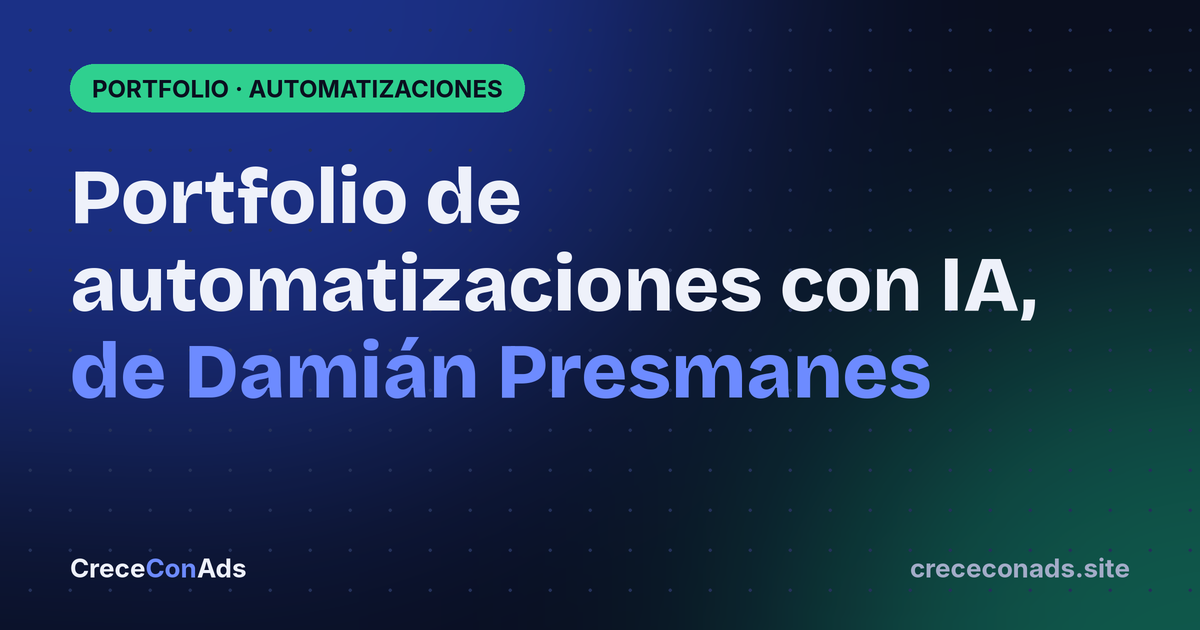
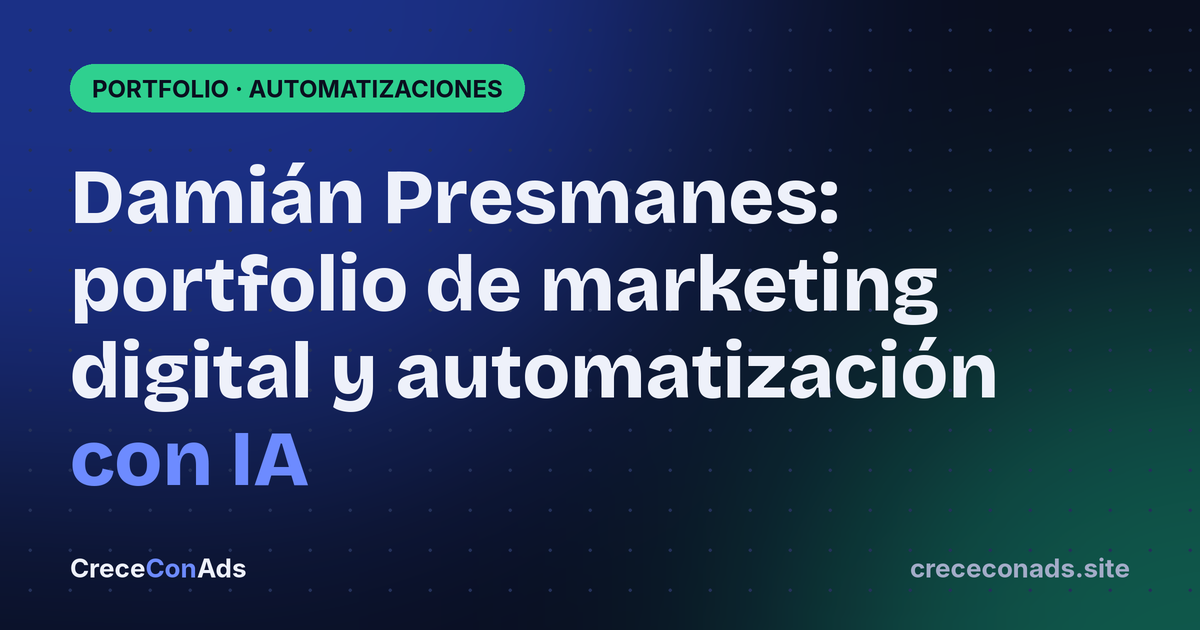
Portfolio: enfoque para consultores (formación, resultados, trabajar juntos)
Claude-Session: https://claude.ai/code/session_01Nwvc8Z345cPxf9YviSEw16

Changed region(s): [[0.0617, 0.3921, 0.8633, 0.6635], [0.0617, 0.2413, 0.7092, 0.3619], [0.0617, 0.6635, 0.2775, 0.7841]]

diff --git a/portfolio-automatizaciones-k7q2.html b/portfolio-automatizaciones-k7q2.html
@@ -5,7 +5,7 @@
 <meta name="viewport" content="width=device-width, initial-scale=1">
 <script>window.dataLayer=window.dataLayer||[];dataLayer.push({'gtm.start':Date.now(),event:'gtm.js'});(function(){var c=0;function g(){if(c)return;c=1;var j=document.createElement('script');j.async=true;j.src='https://www.googletagmanager.com/gtm.js?id=GTM-TKWHBHB9';document.head.appendChild(j);}['scroll','pointerdown','keydown','touchstart'].forEach(function(e){addEventListener(e,g,{once:true,passive:true});});addEventListener('load',function(){setTimeout(g,2000);});})();</script>
 <script>window.va=window.va||function(){(window.vaq=window.vaq||[]).push(arguments)};</script><script defer src="/_vercel/insights/script.js"></script>
-<title>Portfolio de automatizaciones con IA | Damián Presmanes</title>
+<title>Damián Presmanes · Portfolio de marketing digital y automatización con IA</title>
 <meta name="description" content="Sistemas con IA que hacen el trabajo repetitivo: trámites de la UTN, contenido y anuncios en Meta, SEO e investigación web. Con un punto de control humano en cada paso.">
 <link rel="canonical" href="https://crececonads.site/portfolio-automatizaciones-k7q2">
 <meta name="robots" content="noindex, nofollow">
@@ -18,7 +18,7 @@
 <meta property="og:locale" content="es_AR">
 <meta property="og:site_name" content="CreceConAds">
 <meta property="og:url" content="https://crececonads.site/portfolio-automatizaciones-k7q2">
-<meta property="og:title" content="Portfolio de automatizaciones con IA, de Damián Presmanes">
+<meta property="og:title" content="Damián Presmanes: portfolio de marketing digital y automatización con IA">
 <meta property="og:description" content="Sistemas con IA que hacen el trabajo repetitivo: trámites de la UTN, contenido y anuncios en Meta, SEO e investigación web. Con un punto de control humano en cada paso.">
 <meta property="og:image" content="https://crececonads.site/img/og/portfolio-automatizaciones-k7q2.png">
 <meta property="og:image:width" content="1200">
@@ -37,7 +37,7 @@
    "@type": "WebPage",
    "@id": "https://crececonads.site/portfolio-automatizaciones-k7q2#pagina",
    "url": "https://crececonads.site/portfolio-automatizaciones-k7q2",
-   "name": "Portfolio de automatizaciones con IA, de Damián Presmanes",
+   "name": "Damián Presmanes: portfolio de marketing digital y automatización con IA",
    "description": "Sistemas con IA que hacen el trabajo repetitivo: trámites de la UTN, contenido y anuncios en Meta, SEO e investigación web. Con un punto de control humano en cada paso.",
    "inLanguage": "es-AR",
    "dateModified": "2026-11-24",
@@ -63,7 +63,7 @@
     {
      "@type": "ListItem",
      "position": 2,
-     "name": "Portfolio de automatizaciones con IA, de Damián Presmanes",
+     "name": "Damián Presmanes: portfolio de marketing digital y automatización con IA",
      "item": "https://crececonads.site/portfolio-automatizaciones-k7q2"
     }
    ]
@@ -81,23 +81,50 @@
 </div></header>
 <main class="wrap">
 <div class="pf">
-  <header class="pf-hero">
-    <p class="pf-eyebrow">Portfolio · Automatizaciones con IA</p>
-    <h1>Automatizo el trabajo repetitivo para que te quede tiempo para <em>lo que da plata</em></h1>
-    <p class="pf-sub">Soy Damián Presmanes. Vengo del marketing digital (Meta Ads, contenido y SEO) y hoy armo sistemas con IA que hacen el trabajo de todos los días. En cada uno hay un paso donde apruebo yo: la IA trabaja, pero no se manda sola.</p>
-    <div class="pf-nums">
-      <div><strong>4–5 h → 2 h</strong><span>por día en los trámites de la UTN</span></div>
-      <div><strong>24</strong><span>agentes de IA con tareas programadas</span></div>
-      <div><strong>14</strong><span>guías publicadas con el sistema de SEO</span></div>
-      <div><strong>30</strong><span>novedades de IA y Meta con fuente oficial</span></div>
+  <header class="pf-hero pf-hero-cv">
+    <div class="pf-hero-txt">
+      <p class="pf-eyebrow">Portfolio · Marketing digital y automatización con IA</p>
+      <h1>Damián Presmanes</h1>
+      <p class="pf-rol">Recibido en Comercio Electrónico y Marketing Digital en la UTN, con formación en programación. Fundador de CreceConAds.</p>
+      <p class="pf-sub">Combino dos cosas que pocas veces van juntas: sé de marketing y ventas, y sé programar. Por eso armo yo mismo las campañas, los agentes de IA y las automatizaciones, y cada sistema apunta a un resultado de negocio.</p>
+      <div class="pf-botones"><a class="btn" data-cta="agendar" href="/agendar">Agendar una llamada</a><a class="btn btn-line" data-cta="whatsapp" href="https://wa.me/5491173566942?text=Hola%20Dami%C3%A1n%2C%20vi%20tu%20portfolio" target="_blank" rel="noopener">WhatsApp</a><a class="btn btn-line" data-cta="linkedin" href="https://www.linkedin.com/in/dpresmanes/" target="_blank" rel="noopener">LinkedIn</a></div>
     </div>
-    <nav class="pf-indice" aria-label="Secciones">
-      <a href="#utn">Trámites UTN</a><a href="#sistemas">Meta y SEO</a><a href="#marketing">Por qué el marketing</a><a href="#probalo">Probalo vos</a>
-    </nav>
+    <div class="foto pf-foto"><img src="/img/damian-presmanes.webp" alt="Damián Presmanes" width="420" height="420"></div>
   </header>
 
+  <div class="pf-nums">
+    <div><strong>UTN</strong><span>Comercio Electrónico y Marketing Digital</span></div>
+    <div><strong>5,0 ★</strong><span>13 reseñas en Google Maps</span></div>
+    <div><strong>4–5 h → 2 h</strong><span>por día en los trámites de la UTN</span></div>
+    <div><strong>24</strong><span>agentes de IA con tareas programadas</span></div>
+  </div>
+  <nav class="pf-indice" aria-label="Secciones">
+    <a href="#perfil">Formación y servicios</a><a href="#resultados">Resultados</a><a href="#utn">Caso UTN</a><a href="#sistemas">Sistemas de marketing</a><a href="#juntos">Trabajar juntos</a>
+  </nav>
+
+  <section class="pf-sec" id="perfil">
+    <p class="pf-kicker">Formación y experiencia</p>
+    <h2>Marketing, ventas y programación en una sola persona</h2>
+    <div class="pf-tres">
+      <div><b>Formación</b><p>Me recibí en Comercio Electrónico y Marketing Digital en la Universidad Tecnológica Nacional (UTN). Antes estudié programación, y eso me permite construir yo mismo lo que propongo.</p></div>
+      <div><b>Meta Ads</b><p>Campañas de ventas en Facebook e Instagram para tiendas online y negocios que venden por WhatsApp, medidas hasta la compra.</p></div>
+      <div><b>IA y automatización</b><p>Agentes de IA para WhatsApp e Instagram que responden con el tono del negocio, y automatización de procesos administrativos y de marketing.</p></div>
+    </div>
+  </section>
+
+  <section class="pf-sec" id="resultados">
+    <p class="pf-kicker">Resultados con clientes</p>
+    <h2>Números del administrador de anuncios de Meta</h2>
+    <div class="pf-res">
+      <div><strong>$209 M</strong><span><b>Prussia</b>, ecommerce de moda: ventas atribuidas a Meta entre enero y abril de 2026, con un ROAS atribuido de 8,2x.</span></div>
+      <div><strong>630</strong><span><b>Alejandra Ferechian</b>, inmobiliaria en CABA: conversaciones de WhatsApp en 7 meses; un solo reel trajo 206.</span></div>
+      <div><strong>$46.848 → $1.419</strong><span><b>Win Ar</b>, marca de pádel: costo por seguidor al pasar de mostrar solo el producto a mostrar personas.</span></div>
+      <div><strong>1.485</strong><span><b>Guadalupe González y Sofía Maciel</b>, nutricionistas: conversaciones generadas con anuncios.</span></div>
+    </div>
+  </section>
+
   <section class="pf-sec" id="utn">
-    <p class="pf-kicker">Caso 1 · Operaciones</p>
+    <p class="pf-kicker">Automatización · Operaciones</p>
     <h2>Trámites de simultaneidad en la UTN</h2>
     <p>En la Dirección de Alumnos de la UTN Facultad Regional Buenos Aires, cada pedido de simultaneidad de carreras se revisaba materia por materia, y los informes y las resoluciones se armaban a mano. Lo pasé a una planilla de Google con scripts que hacen la parte repetitiva.</p>
 
@@ -121,7 +148,7 @@
   </section>
 
   <section class="pf-sec" id="sistemas">
-    <p class="pf-kicker">Casos 2, 3 y 4 · Marketing</p>
+    <p class="pf-kicker">Automatización · Marketing</p>
     <h2>Mi propio sistema de marketing, automatizado</h2>
     <p>Lo mismo que hago para mis clientes lo uso en CreceConAds todos los días. Elegí un sistema y tocá <b>Ver cómo funciona</b>.</p>
     <div class="viz-tabs pf-tabs" role="tablist" aria-label="Sistemas">
@@ -132,14 +159,21 @@
     <div class="pf-sistema" id="sistema"></div>
   </section>
 
-  <section class="pf-sec" id="marketing">
-    <p class="pf-kicker">Por qué importa</p>
-    <h2>Automatizar sabiendo de marketing</h2>
+  <section class="pf-sec" id="juntos">
+    <p class="pf-kicker">Para consultores</p>
+    <h2>Cómo podemos trabajar juntos</h2>
     <div class="pf-tres">
-      <div><b>Apunto a resultados</b><p>No automatizo por automatizar: cada sistema termina en algo que se mide, como horas ahorradas, consultas que entran o publicaciones que salen a tiempo.</p></div>
-      <div><b>Sé conseguir clientes</b><p>Las automatizaciones de captación (palabra clave → mensaje directo, agente de WhatsApp, guías que posicionan en Google) las uso para mi propio negocio.</p></div>
-      <div><b>Control humano</b><p>Nada se publica ni se gasta sin aprobación. La IA prepara, una persona decide.</p></div>
+      <div><b>Proyecto para tu cliente</b><p>Vos tenés la relación y el diagnóstico; yo armo la parte técnica: campañas, agentes de IA o automatización de procesos.</p></div>
+      <div><b>Me referís</b><p>Si un cliente tuyo necesita marketing digital o automatizar tareas, lo atiendo y te mantengo al tanto de cada paso.</p></div>
+      <div><b>Para tu consultora</b><p>Automatizo tareas repetitivas de tu propio trabajo: informes, planillas, seguimiento de clientes o captación.</p></div>
     </div>
+    <h3 class="pf-h3">Cómo trabajo</h3>
+    <ul class="pf-lista">
+      <li>Estoy en cada reunión y cumplo los tiempos.</li>
+      <li>Explico qué pasa con cada peso invertido, en palabras simples.</li>
+      <li>Cuento lo que funciona y también lo que no.</li>
+      <li>Nada se publica ni se gasta sin aprobación: la IA prepara, una persona decide.</li>
+    </ul>
   </section>
 
   <section class="pf-sec" id="probalo">
@@ -153,10 +187,10 @@
   </section>
 
   <section class="pf-cierre">
-    <div><h2>¿Qué parte de tu trabajo se repite todos los días?</h2><p>En 30 minutos la miramos juntos y te digo qué se puede automatizar.</p></div>
+    <div><h2>¿Tenés un cliente o un proyecto en mente?</h2><p>En 30 minutos lo vemos juntos y te digo cómo te puedo ayudar.</p></div>
     <div class="pf-botones"><a class="btn" data-cta="agendar" href="/agendar">Agendar llamada gratis</a><a class="btn btn-line" data-cta="whatsapp" href="https://wa.me/5491173566942?text=Hola%2C%20vi%20tu%20portfolio%20de%20automatizaciones" target="_blank" rel="noopener">Escribime por WhatsApp</a></div>
   </section>
-  <p class="pf-pie">Los datos de la planilla y de la resolución son de ejemplo. No se muestran alumnos, clientes, montos ni conversaciones.</p>
+  <p class="pf-pie">Los datos de la planilla y de la resolución son de ejemplo. Los resultados de clientes son los que ya están publicados en crececonads.site. No se muestran alumnos ni conversaciones.</p>
 </div>
 </main>
 <footer class="site-foot"><div class="wrap">

diff --git a/contenido/pagina-portfolio.html b/contenido/pagina-portfolio.html
@@ -2,8 +2,8 @@
 "tipo": "pagina",
 "slug": "portfolio-automatizaciones-k7q2",
 "oculta": true,
-"titulo": "Portfolio de automatizaciones con IA, de Damián Presmanes",
-"titulo_seo": "Portfolio de automatizaciones con IA | Damián Presmanes",
+"titulo": "Damián Presmanes: portfolio de marketing digital y automatización con IA",
+"titulo_seo": "Damián Presmanes · Portfolio de marketing digital y automatización con IA",
 "descripcion": "Sistemas con IA que hacen el trabajo repetitivo: trámites de la UTN, contenido y anuncios en Meta, SEO e investigación web. Con un punto de control humano en cada paso.",
 "tag": "Portfolio · Automatizaciones",
 "fecha": "2026-11-24",
@@ -13,23 +13,50 @@
 "og_sitio": "crececonads.site"
 }-->
 <div class="pf">
-  <header class="pf-hero">
-    <p class="pf-eyebrow">Portfolio · Automatizaciones con IA</p>
-    <h1>Automatizo el trabajo repetitivo para que te quede tiempo para <em>lo que da plata</em></h1>
-    <p class="pf-sub">Soy Damián Presmanes. Vengo del marketing digital (Meta Ads, contenido y SEO) y hoy armo sistemas con IA que hacen el trabajo de todos los días. En cada uno hay un paso donde apruebo yo: la IA trabaja, pero no se manda sola.</p>
-    <div class="pf-nums">
-      <div><strong>4–5 h → 2 h</strong><span>por día en los trámites de la UTN</span></div>
-      <div><strong>24</strong><span>agentes de IA con tareas programadas</span></div>
-      <div><strong>14</strong><span>guías publicadas con el sistema de SEO</span></div>
-      <div><strong>30</strong><span>novedades de IA y Meta con fuente oficial</span></div>
+  <header class="pf-hero pf-hero-cv">
+    <div class="pf-hero-txt">
+      <p class="pf-eyebrow">Portfolio · Marketing digital y automatización con IA</p>
+      <h1>Damián Presmanes</h1>
+      <p class="pf-rol">Recibido en Comercio Electrónico y Marketing Digital en la UTN, con formación en programación. Fundador de CreceConAds.</p>
+      <p class="pf-sub">Combino dos cosas que pocas veces van juntas: sé de marketing y ventas, y sé programar. Por eso armo yo mismo las campañas, los agentes de IA y las automatizaciones, y cada sistema apunta a un resultado de negocio.</p>
+      <div class="pf-botones"><a class="btn" data-cta="agendar" href="/agendar">Agendar una llamada</a><a class="btn btn-line" data-cta="whatsapp" href="https://wa.me/5491173566942?text=Hola%20Dami%C3%A1n%2C%20vi%20tu%20portfolio" target="_blank" rel="noopener">WhatsApp</a><a class="btn btn-line" data-cta="linkedin" href="https://www.linkedin.com/in/dpresmanes/" target="_blank" rel="noopener">LinkedIn</a></div>
     </div>
-    <nav class="pf-indice" aria-label="Secciones">
-      <a href="#utn">Trámites UTN</a><a href="#sistemas">Meta y SEO</a><a href="#marketing">Por qué el marketing</a><a href="#probalo">Probalo vos</a>
-    </nav>
+    <div class="foto pf-foto"><img src="/img/damian-presmanes.webp" alt="Damián Presmanes" width="420" height="420"></div>
   </header>
 
+  <div class="pf-nums">
+    <div><strong>UTN</strong><span>Comercio Electrónico y Marketing Digital</span></div>
+    <div><strong>5,0 ★</strong><span>13 reseñas en Google Maps</span></div>
+    <div><strong>4–5 h → 2 h</strong><span>por día en los trámites de la UTN</span></div>
+    <div><strong>24</strong><span>agentes de IA con tareas programadas</span></div>
+  </div>
+  <nav class="pf-indice" aria-label="Secciones">
+    <a href="#perfil">Formación y servicios</a><a href="#resultados">Resultados</a><a href="#utn">Caso UTN</a><a href="#sistemas">Sistemas de marketing</a><a href="#juntos">Trabajar juntos</a>
+  </nav>
+
+  <section class="pf-sec" id="perfil">
+    <p class="pf-kicker">Formación y experiencia</p>
+    <h2>Marketing, ventas y programación en una sola persona</h2>
+    <div class="pf-tres">
+      <div><b>Formación</b><p>Me recibí en Comercio Electrónico y Marketing Digital en la Universidad Tecnológica Nacional (UTN). Antes estudié programación, y eso me permite construir yo mismo lo que propongo.</p></div>
+      <div><b>Meta Ads</b><p>Campañas de ventas en Facebook e Instagram para tiendas online y negocios que venden por WhatsApp, medidas hasta la compra.</p></div>
+      <div><b>IA y automatización</b><p>Agentes de IA para WhatsApp e Instagram que responden con el tono del negocio, y automatización de procesos administrativos y de marketing.</p></div>
+    </div>
+  </section>
+
+  <section class="pf-sec" id="resultados">
+    <p class="pf-kicker">Resultados con clientes</p>
+    <h2>Números del administrador de anuncios de Meta</h2>
+    <div class="pf-res">
+      <div><strong>$209 M</strong><span><b>Prussia</b>, ecommerce de moda: ventas atribuidas a Meta entre enero y abril de 2026, con un ROAS atribuido de 8,2x.</span></div>
+      <div><strong>630</strong><span><b>Alejandra Ferechian</b>, inmobiliaria en CABA: conversaciones de WhatsApp en 7 meses; un solo reel trajo 206.</span></div>
+      <div><strong>$46.848 → $1.419</strong><span><b>Win Ar</b>, marca de pádel: costo por seguidor al pasar de mostrar solo el producto a mostrar personas.</span></div>
+      <div><strong>1.485</strong><span><b>Guadalupe González y Sofía Maciel</b>, nutricionistas: conversaciones generadas con anuncios.</span></div>
+    </div>
+  </section>
+
   <section class="pf-sec" id="utn">
-    <p class="pf-kicker">Caso 1 · Operaciones</p>
+    <p class="pf-kicker">Automatización · Operaciones</p>
     <h2>Trámites de simultaneidad en la UTN</h2>
     <p>En la Dirección de Alumnos de la UTN Facultad Regional Buenos Aires, cada pedido de simultaneidad de carreras se revisaba materia por materia, y los informes y las resoluciones se armaban a mano. Lo pasé a una planilla de Google con scripts que hacen la parte repetitiva.</p>
 
@@ -53,7 +80,7 @@
   </section>
 
   <section class="pf-sec" id="sistemas">
-    <p class="pf-kicker">Casos 2, 3 y 4 · Marketing</p>
+    <p class="pf-kicker">Automatización · Marketing</p>
     <h2>Mi propio sistema de marketing, automatizado</h2>
     <p>Lo mismo que hago para mis clientes lo uso en CreceConAds todos los días. Elegí un sistema y tocá <b>Ver cómo funciona</b>.</p>
     <div class="viz-tabs pf-tabs" role="tablist" aria-label="Sistemas">
@@ -64,14 +91,21 @@
     <div class="pf-sistema" id="sistema"></div>
   </section>
 
-  <section class="pf-sec" id="marketing">
-    <p class="pf-kicker">Por qué importa</p>
-    <h2>Automatizar sabiendo de marketing</h2>
+  <section class="pf-sec" id="juntos">
+    <p class="pf-kicker">Para consultores</p>
+    <h2>Cómo podemos trabajar juntos</h2>
     <div class="pf-tres">
-      <div><b>Apunto a resultados</b><p>No automatizo por automatizar: cada sistema termina en algo que se mide, como horas ahorradas, consultas que entran o publicaciones que salen a tiempo.</p></div>
-      <div><b>Sé conseguir clientes</b><p>Las automatizaciones de captación (palabra clave → mensaje directo, agente de WhatsApp, guías que posicionan en Google) las uso para mi propio negocio.</p></div>
-      <div><b>Control humano</b><p>Nada se publica ni se gasta sin aprobación. La IA prepara, una persona decide.</p></div>
+      <div><b>Proyecto para tu cliente</b><p>Vos tenés la relación y el diagnóstico; yo armo la parte técnica: campañas, agentes de IA o automatización de procesos.</p></div>
+      <div><b>Me referís</b><p>Si un cliente tuyo necesita marketing digital o automatizar tareas, lo atiendo y te mantengo al tanto de cada paso.</p></div>
+      <div><b>Para tu consultora</b><p>Automatizo tareas repetitivas de tu propio trabajo: informes, planillas, seguimiento de clientes o captación.</p></div>
     </div>
+    <h3 class="pf-h3">Cómo trabajo</h3>
+    <ul class="pf-lista">
+      <li>Estoy en cada reunión y cumplo los tiempos.</li>
+      <li>Explico qué pasa con cada peso invertido, en palabras simples.</li>
+      <li>Cuento lo que funciona y también lo que no.</li>
+      <li>Nada se publica ni se gasta sin aprobación: la IA prepara, una persona decide.</li>
+    </ul>
   </section>
 
   <section class="pf-sec" id="probalo">
@@ -85,8 +119,8 @@
   </section>
 
   <section class="pf-cierre">
-    <div><h2>¿Qué parte de tu trabajo se repite todos los días?</h2><p>En 30 minutos la miramos juntos y te digo qué se puede automatizar.</p></div>
+    <div><h2>¿Tenés un cliente o un proyecto en mente?</h2><p>En 30 minutos lo vemos juntos y te digo cómo te puedo ayudar.</p></div>
     <div class="pf-botones"><a class="btn" data-cta="agendar" href="/agendar">Agendar llamada gratis</a><a class="btn btn-line" data-cta="whatsapp" href="https://wa.me/5491173566942?text=Hola%2C%20vi%20tu%20portfolio%20de%20automatizaciones" target="_blank" rel="noopener">Escribime por WhatsApp</a></div>
   </section>
-  <p class="pf-pie">Los datos de la planilla y de la resolución son de ejemplo. No se muestran alumnos, clientes, montos ni conversaciones.</p>
+  <p class="pf-pie">Los datos de la planilla y de la resolución son de ejemplo. Los resultados de clientes son los que ya están publicados en crececonads.site. No se muestran alumnos ni conversaciones.</p>
 </div>

diff --git a/assets/portfolio.css b/assets/portfolio.css
@@ -102,3 +102,23 @@
   .pf-demo-head .btn{width:100%}
 }
 @media (prefers-reduced-motion:reduce){.pf *{animation:none!important;transition:none!important}}
+
+/* versión para consultores: hero con foto, resultados y trabajo conjunto */
+.pf-hero-cv{display:grid;grid-template-columns:1.4fr 1fr;gap:28px;align-items:center;margin-bottom:24px}
+.pf-hero-cv h1{margin-bottom:8px}
+.pf-rol{font-size:19px;font-weight:600;margin:0 0 12px;max-width:640px}
+.pf-hero-cv .pf-sub{margin-bottom:20px}
+.pf-foto{margin:0;max-width:360px;justify-self:center}
+.pf-res{display:grid;grid-template-columns:repeat(2,1fr);gap:14px;margin-top:16px}
+.pf-res div{background:var(--night-2);border:1px solid var(--edge);border-radius:16px;padding:18px}
+.pf-res strong{display:block;font-family:var(--display);font-size:30px;line-height:1.1;color:var(--green);margin-bottom:6px}
+.pf-res span{color:var(--soft);font-size:16px}
+.pf-res span b{color:var(--text)}
+.pf-h3{font-family:var(--display);font-size:22px;margin:28px 0 8px}
+.pf-lista{margin:0;padding-left:20px;color:var(--soft)}
+.pf-lista li{margin:4px 0}
+@media (max-width:800px){
+  .pf-hero-cv{grid-template-columns:1fr}
+  .pf-foto{order:-1;max-width:240px}
+  .pf-res{grid-template-columns:1fr}
+}
